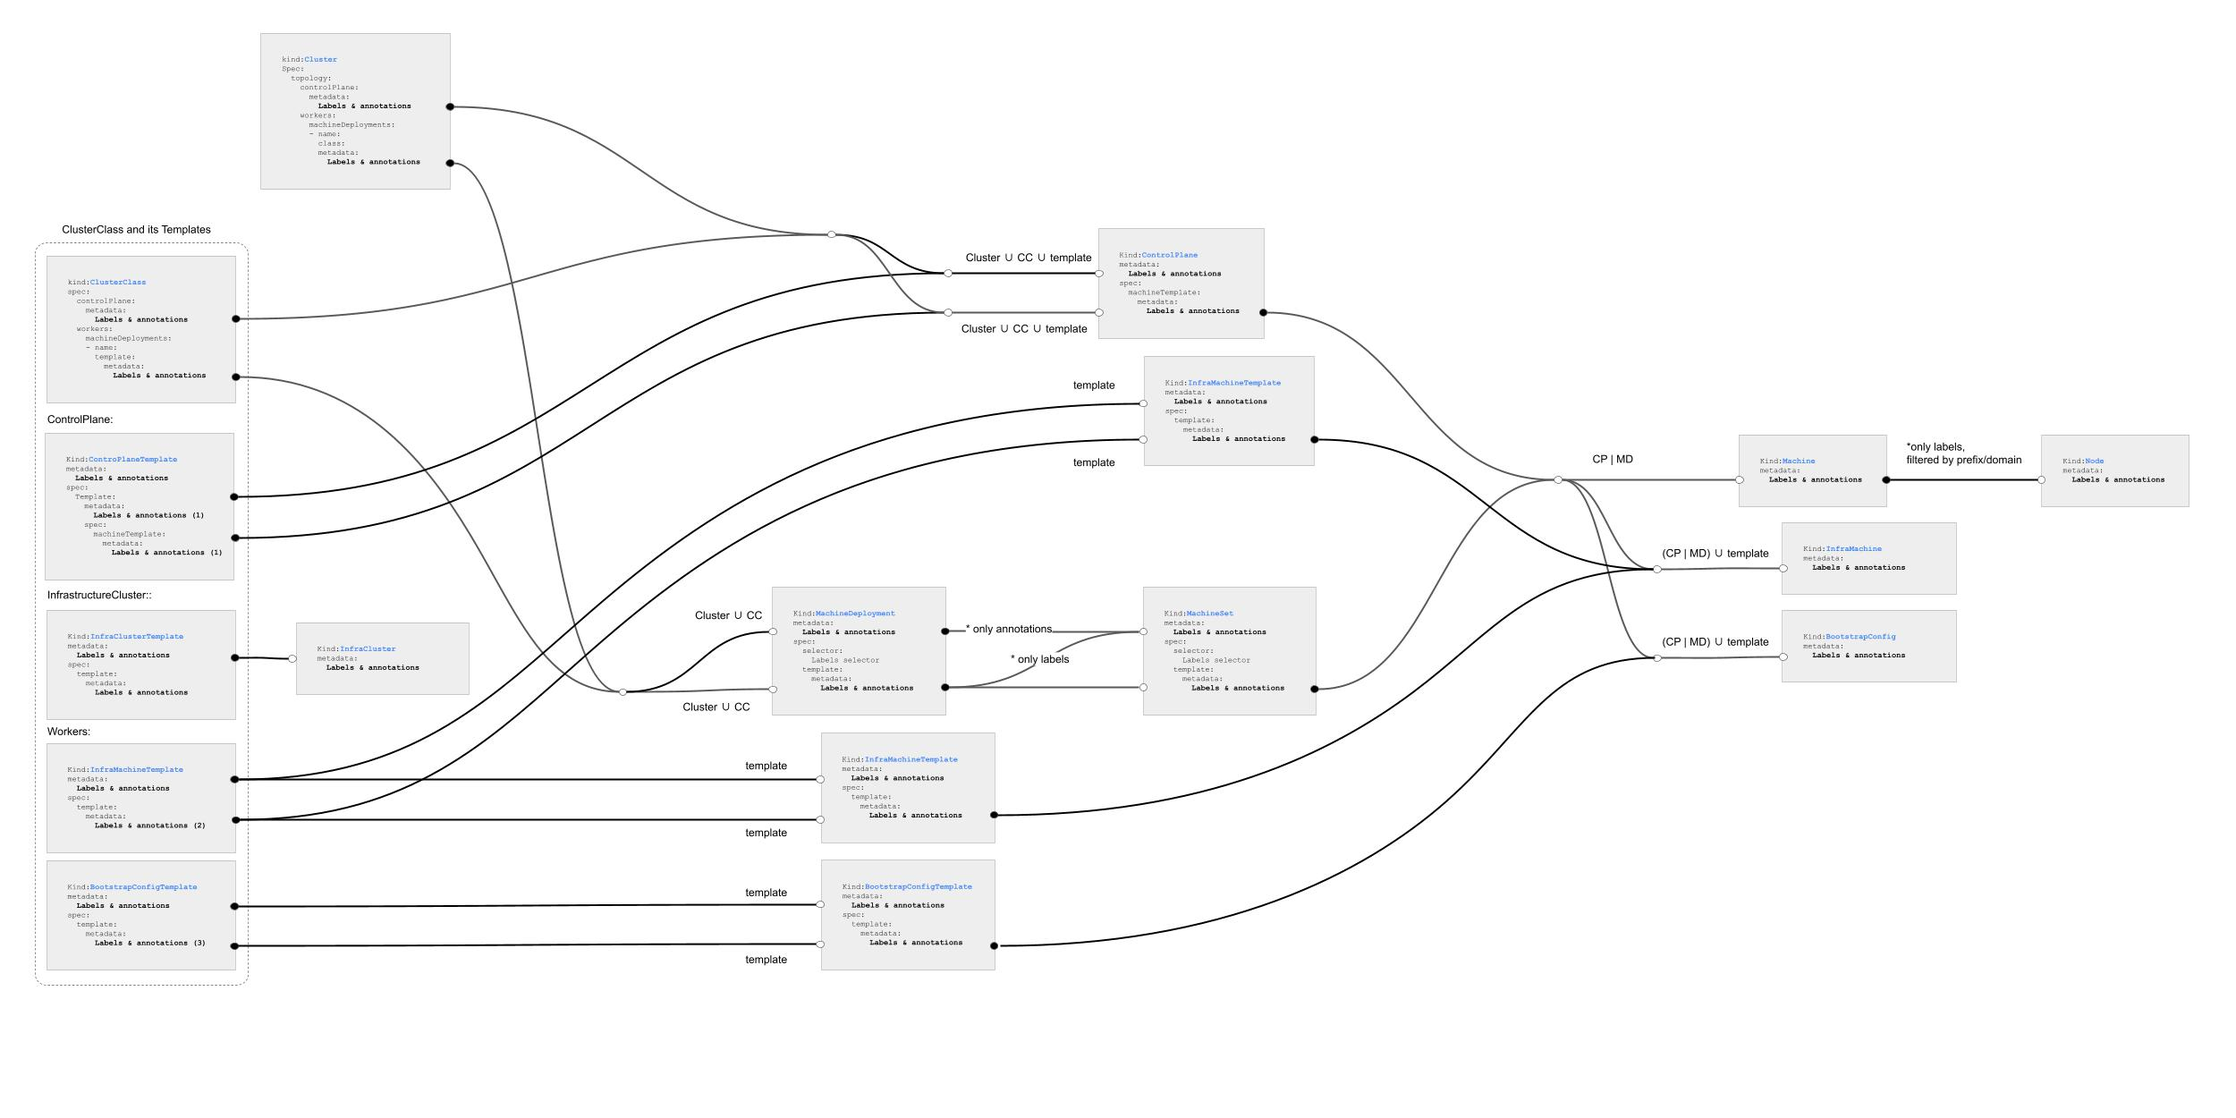
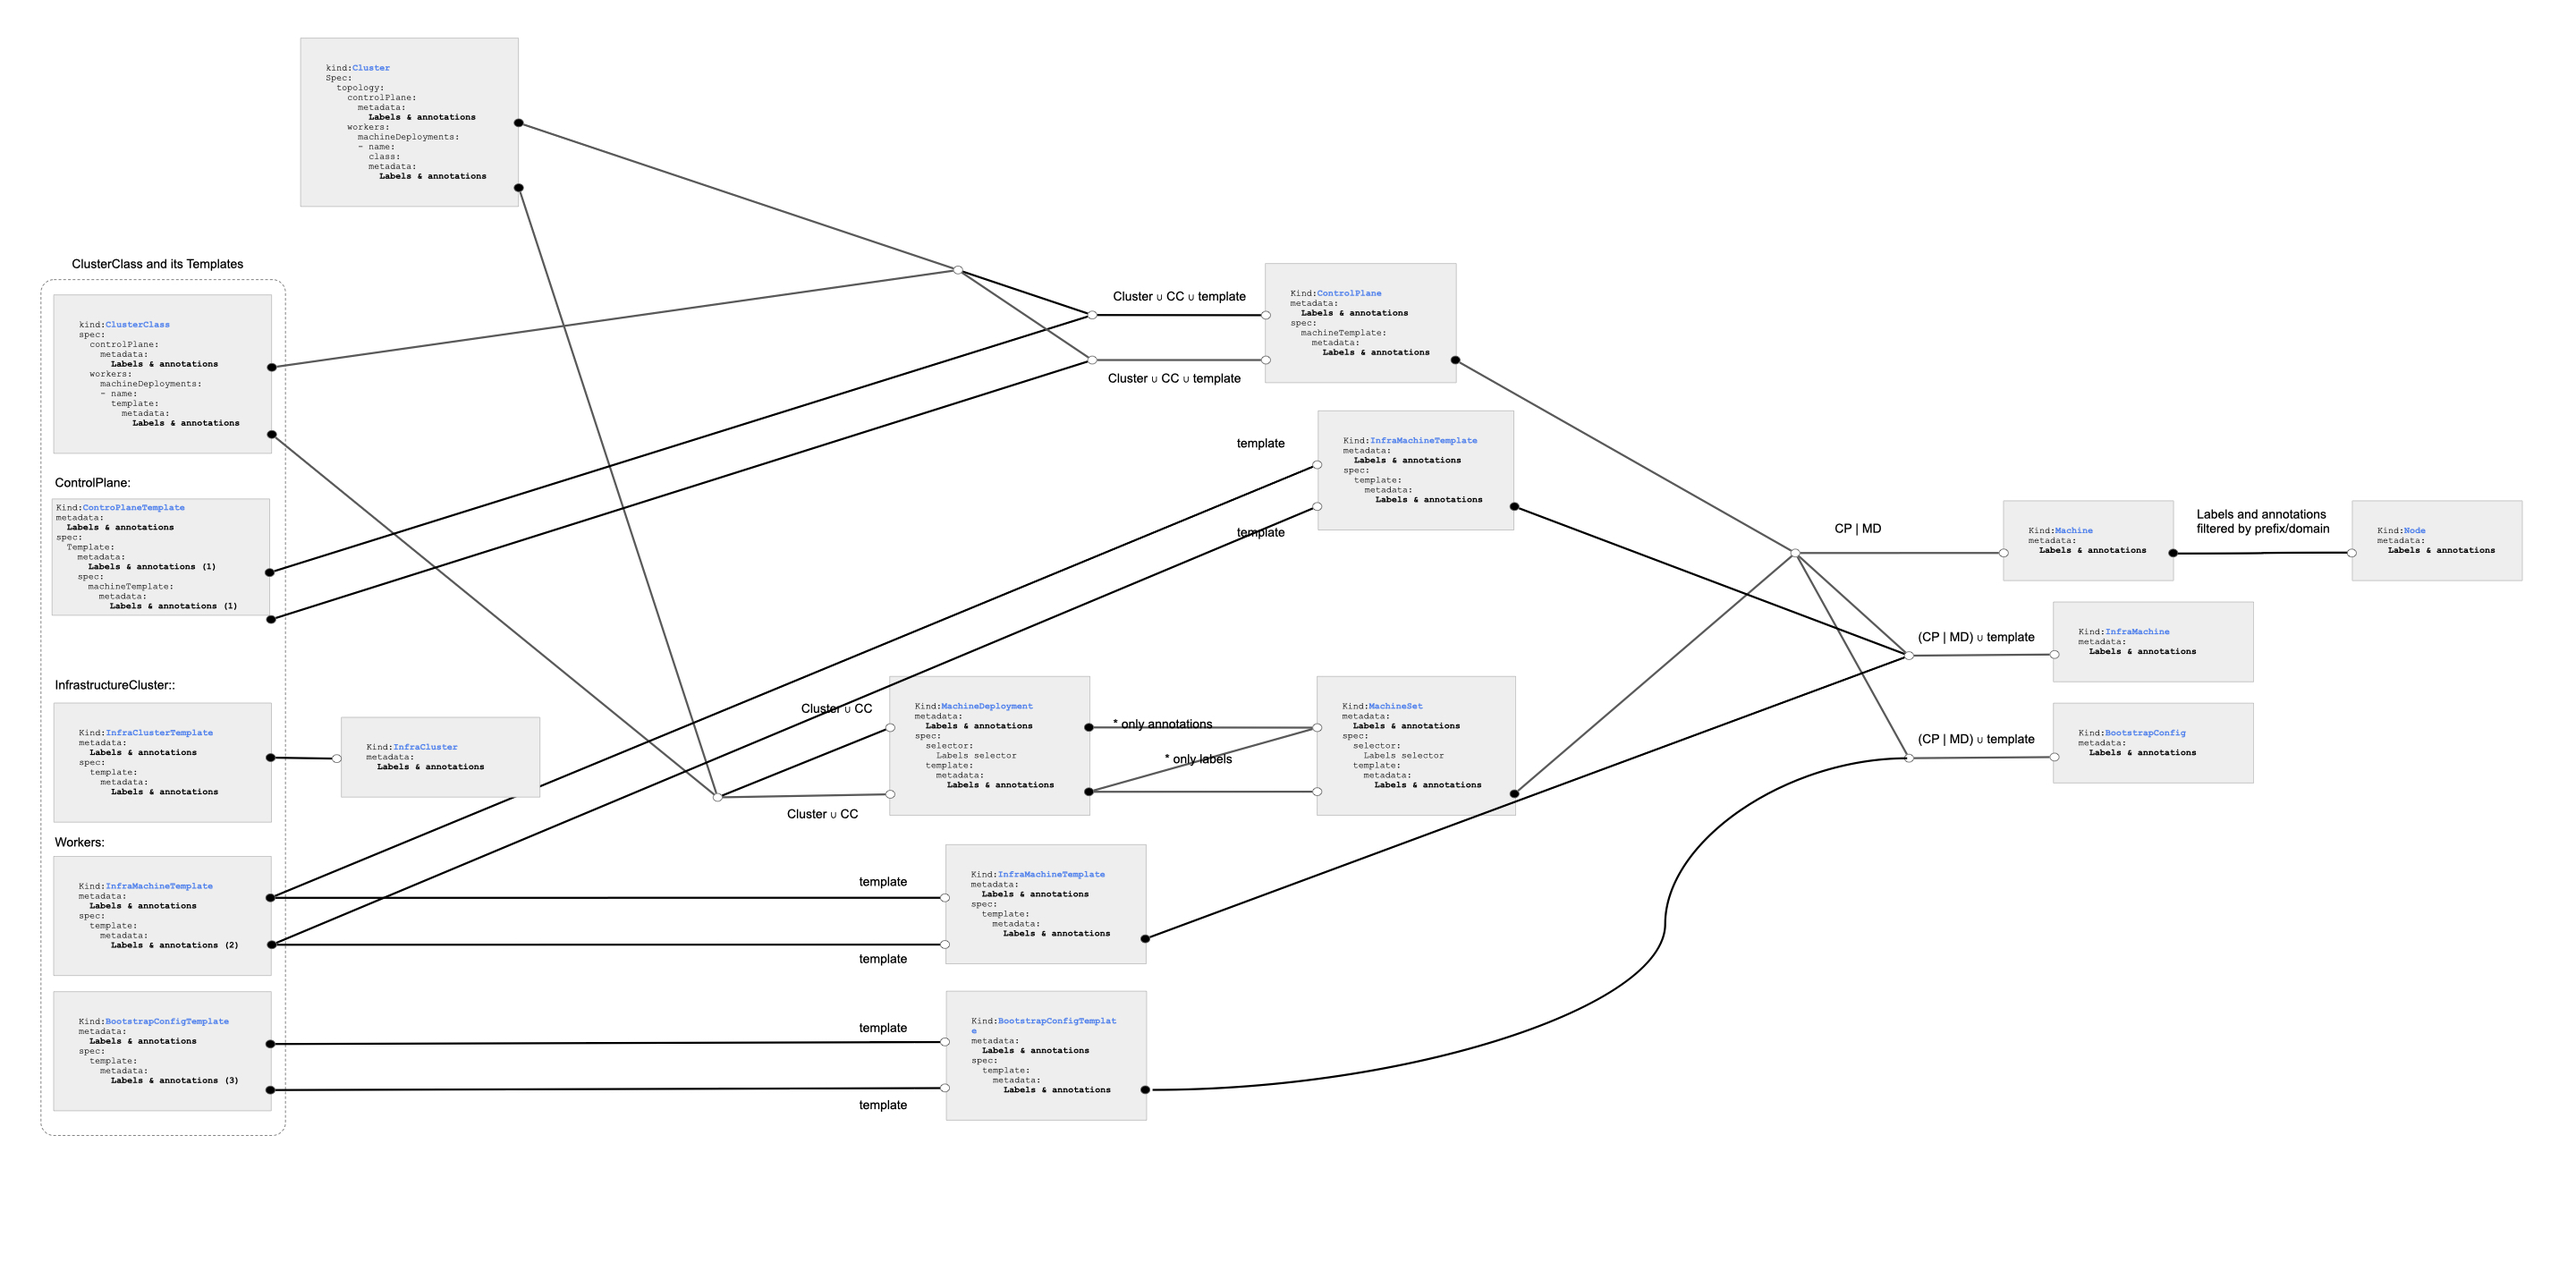
Documents new annotations
This change documents the new cluster.x-k8s.io/labels-from-machine and
cluster.x-k8s.io/annotations-from-machine annotations.

diff --git a/docs/book/src/reference/api/labels-and-annotations.md b/docs/book/src/reference/api/labels-and-annotations.md
@@ -21,12 +21,14 @@
 | Annotation                                                       | Note                                                                                                                                                                                                                                                                                                                                                                                                                                                                                                                                                        | Managed By               | Applies to                                     |
 |:-----------------------------------------------------------------|:------------------------------------------------------------------------------------------------------------------------------------------------------------------------------------------------------------------------------------------------------------------------------------------------------------------------------------------------------------------------------------------------------------------------------------------------------------------------------------------------------------------------------------------------------------|:-------------------------|:-----------------------------------------------|
 | before-upgrade.hook.cluster.cluster.x-k8s.io                     | It specifies the prefix we search each annotation for during the before-upgrade lifecycle hook to block propagating the new version to the control plane. These hooks will prevent propagation of changes made to the Cluster Topology to the underlying objects.                                                                                                                                                                                                                                                                                           | User                     | Clusters                                       |
+| cluster.x-k8s.io/annotations-from-machine| It is set on nodes to track the annotations that originated from machines.| Cluster API | Nodes (workload cluster)|
 | cluster.x-k8s.io/cloned-from-groupkind                           | It is the annotation that stores the group-kind of the template from which the current resource has been cloned from.                                                                                                                                                                                                                                                                                                                                                                                                                                       | Cluster API              | All Cluster API objects cloned from a template |
 | cluster.x-k8s.io/cloned-from-name                                | It is the annotation that stores the name of the template from which the current resource has been cloned from.                                                                                                                                                                                                                                                                                                                                                                                                                                             | Cluster API              | All Cluster API objects cloned from a template |
 | cluster.x-k8s.io/cluster-name                                    | It is set on nodes identifying the name of the cluster the node belongs to.                                                                                                                                                                                                                                                                                                                                                                                                                                                                                 | Cluster API              | Nodes (workload cluster)                       |
 | cluster.x-k8s.io/cluster-namespace                               | It is set on nodes identifying the namespace of the cluster the node belongs to.                                                                                                                                                                                                                                                                                                                                                                                                                                                                            | Cluster API              | Nodes (workload cluster)                       |
 | cluster.x-k8s.io/delete-machine                                  | It marks control plane and worker nodes that will be given priority for deletion when KCP or a MachineSet scales down. It is given top priority on all delete policies.                                                                                                                                                                                                                                                                                                                                                                                     | User                     | Machines                                       |
 | cluster.x-k8s.io/disable-machine-create                          | It can be used to signal a MachineSet to stop creating new machines. It is utilized in the OnDelete MachineDeploymentStrategy to allow the MachineDeployment controller to scale down older MachineSets when Machines are deleted and add the new replicas to the latest MachineSet.                                                                                                                                                                                                                                                                        | Cluster API              | MachineSets                                    |
+| cluster.x-k8s.io/labels-from-machine| It is set on nodes to track the labels that originated from machines.| Cluster API | Nodes (workload cluster)|
 | cluster.x-k8s.io/managed-by                                      | It can be applied to InfraCluster resources to signify that some external system is managing the cluster infrastructure. Provider InfraCluster controllers will ignore resources with this annotation. An external controller must fulfill the contract of the InfraCluster resource. External infrastructure providers should ensure that the annotation, once set, cannot be removed.                                                                                                                                                                     | User                     | InfraClusters                                  |
 | cluster.x-k8s.io/machine                                         | It is set on nodes identifying the machine the node belongs to.                                                                                                                                                                                                                                                                                                                                                                                                                                                                                             | Cluster API              | Nodes (workload cluster)                       |
 | cluster.x-k8s.io/owner-kind                                      | It is set on nodes identifying the machine's owner kind the node belongs to.                                                                                                                                                                                                                                                                                                                                                                                                                                                                                | Cluster API              | Nodes (workload cluster)                       |

diff --git a/docs/proposals/20220927-labels-and-annotations-sync-between-machine-and-nodes.md b/docs/proposals/20220927-labels-and-annotations-sync-between-machine-and-nodes.md
@@ -123,6 +123,10 @@ The following is a list of the default annotations that would always be applied 
 
 - The `cluster.x-k8s.io/machine` annotation is applied to a Node to easily ascertain the Machine managing the Node.
 
+- The `cluster.x-k8s.io/owner-kind` annotation is applied to a Node to easily ascertain the kind of the cluster api object owning the Node.
+
+- The `cluster.x-k8s.io/owner-name` annotation is applied to a Node to easily ascertain the name of the cluster api object owning the Node.
+
 Additionally, the `node.cluster.x-k8s.io` domain is owned by Cluster API, and will always be synced.
 
 
@@ -130,7 +134,9 @@ Additionally, the `node.cluster.x-k8s.io` domain is owned by Cluster API, and wi
 
 The synchronization of labels and annotations between a Machine object and its linked Node is limited to the domains and prefixes described in the section above.
 
-The synchronization process is going to use [server side apply](https://kubernetes.io/docs/reference/using-api/server-side-apply/) in order to ensure that Cluster API will manage only the subset of labels and annotations coming from Machine objects and ignores labels and annotations applied to Nodes concurrently by other users/other components.
+Due to an issue in Node.Status.Address patchStrategy marker, it is not possible to use [server side apply.](https://kubernetes.io/docs/reference/using-api/server-side-apply/) In order to ensure that Cluster API will manage only the subset of labels and annotations coming from Machine objects and ignores labels and annotations applied to Nodes concurrently by other users/other components.
+
+Therefore the synchronisation will be implemented using a regular patch and two annotations ("cluster.x-k8s.io/labels-from-machine", "cluster.x-k8s.io/annotations-from-machine") to keep track of annotation owned by cluster API.
 
 This requires to define an identity/manager name to be used by CAPI when performing this operation; additionally during implementation we are going to identify and address eventual additional steps required to properly transition existing Nodes to SSA, if required.
 From a preliminary investigation, the risk is that the manager that created the object and the new SSA manager will become co-owner of the same labels, and this will prevent deletion of labels.

diff --git a/docs/book/src/reference/api/metadata-propagation.md b/docs/book/src/reference/api/metadata-propagation.md
@@ -59,9 +59,9 @@ Template labels and annotations continuously propagate to new and existing Machi
 - `.spec.template.metadata.annotations` => `Machine.annotations`, `InfraMachine.annotations`, `BootstrapConfig.annotations`
 
 ## Machine
-Top-level labels that meet a specific cretria are propagated to the Node labels and top-level annotatation are not propagated.
+Top-level labels that meet a specific criteria are propagated to the Node labels and top-level annotatation are not propagated.
 - `.labels.[label-meets-criteria]` => `Node.labels`
-- `.annotations` => Not propagated.
+- `.annotations.[annotation-meets-criteria]` => `Node.annotations`
 
 Labels that meet at least one of the following criteria are always propagated to the Node:
 - Has `node-role.kubernetes.io` as prefix.
